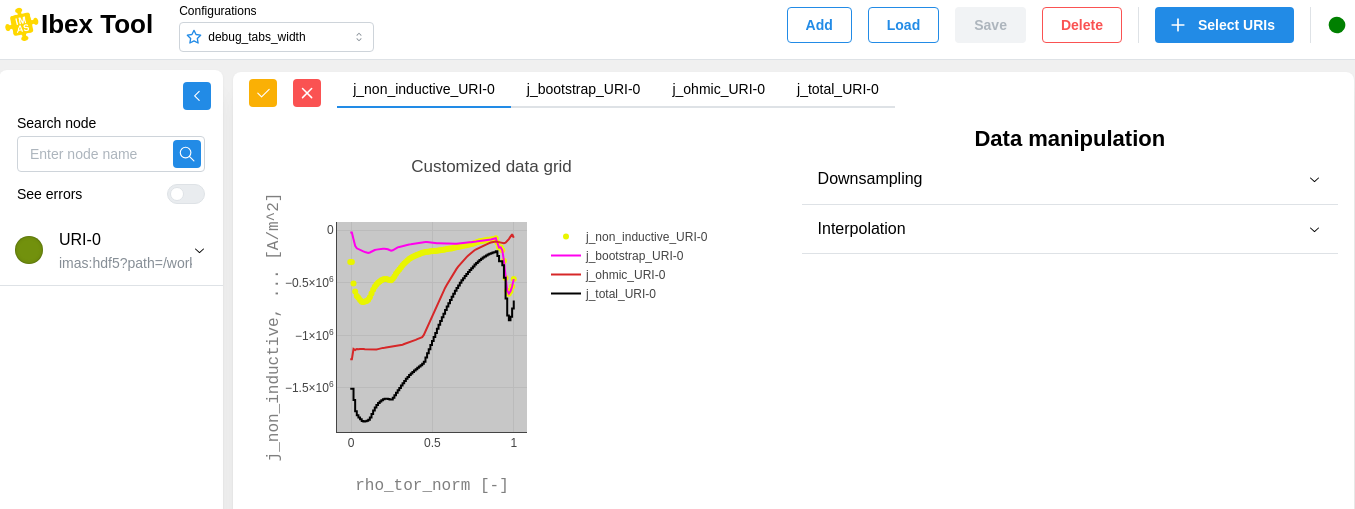
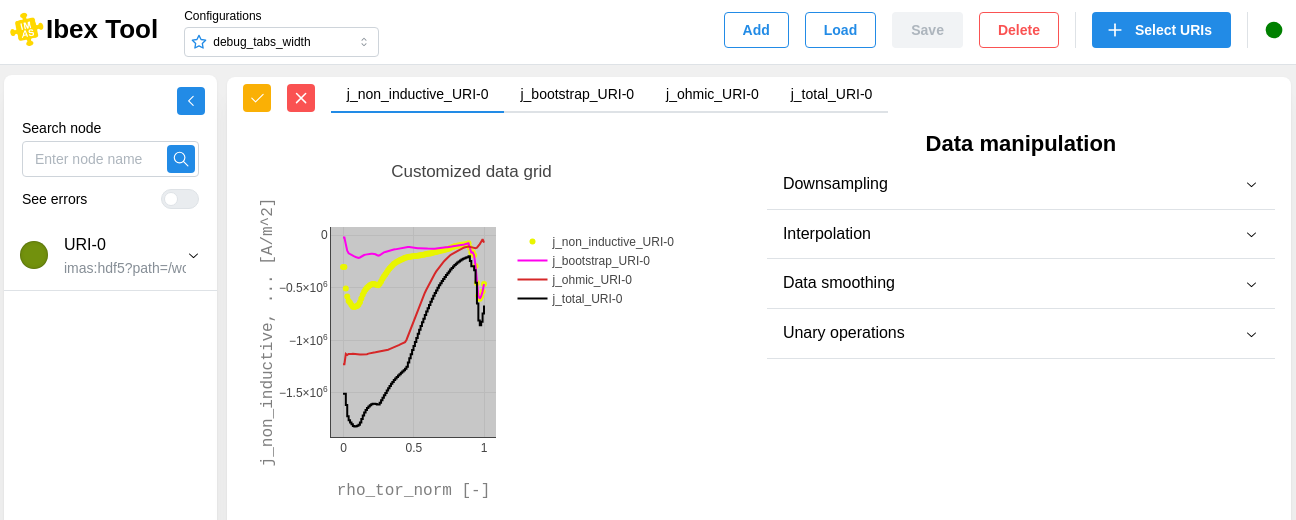
include in the documentation data operations features and scale ratio update

diff --git a/docs/source/users_manual/features/customization.rst b/docs/source/users_manual/features/customization.rst
@@ -46,6 +46,23 @@ Applies an interpolation method to fill gaps between data points by estimating i
    :alt: Interpolation section of the data manipulation
    :align: center
 
+Data smoothing
+--------------------
+
+Applies a smoothing method to reduce noise while preserving the overall shape of the signal. Depending of the selected method, related parameters are displayed:
+
+.. image:: images/customization_smoothing.png
+   :alt: Data smoothing section of the customization
+   :align: center
+
+Unary operations
+--------------------
+
+Applies an ordered list of scalar operations to every data point of the plot:
+
+.. image:: images/customization_unary_operations.png
+   :alt: Unary operations section of the customization
+   :align: center
 
 Visual customization
 ----------------------------
@@ -71,7 +88,8 @@ Allows you to customize the appearance of 1D plots:
 Heatmap
 ~~~~~~~~~~~~
 
-Allows you to modify the color scale of the heatmap:
+The **Force axis ratio (1:1)** switch locks the x and y axes to the same scale. It is by default set to true if x and y axis share the same units in 2D plots.
+You can also modify the **color scale** of the heatmap:
 
 .. image:: images/customization_heatmap.png
    :alt: Heatmap section of the visual customization
